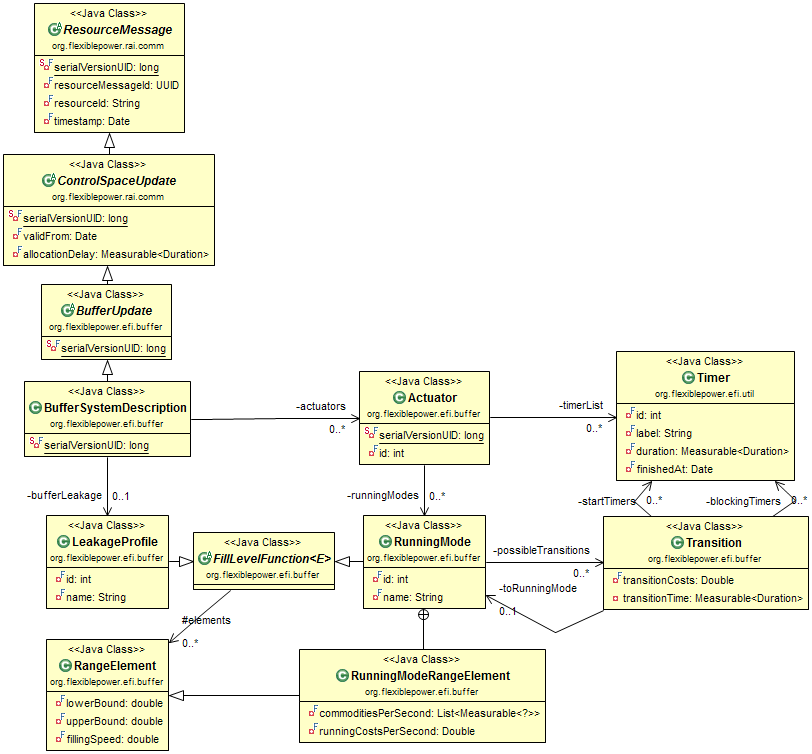
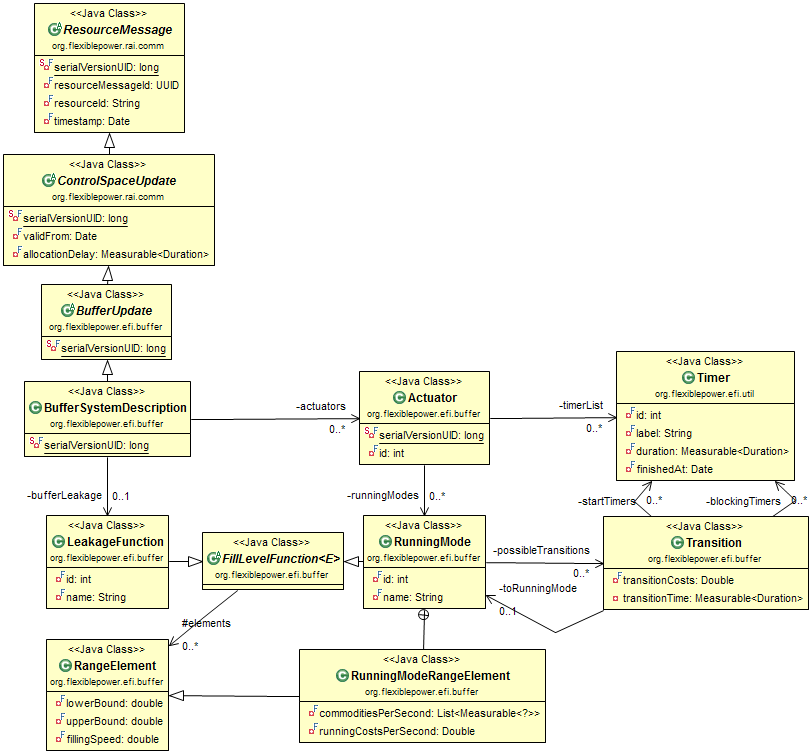
Changed the name of the LeakageProfile into LeakageFunction.

Changed region(s): [[0.0616, 0.7016, 0.431, 0.8541], [0.7081, 0.7321, 0.7389, 0.7626]]

diff --git a/flexiblepower.api.efi/src/org/flexiblepower/efi/buffer/BufferSystemDescription.java b/flexiblepower.api.efi/src/org/flexiblepower/efi/buffer/BufferSystemDescription.java
@@ -18,14 +18,14 @@ public class BufferSystemDescription extends BufferUpdate {
 
     // TODO Is Leakage a running mode? Or should we have a new term for
     // RunningMode...
-    private final LeakageProfile bufferLeakage;
+    private final LeakageFunction bufferLeakage;
 
     public BufferSystemDescription(String resourceId,
                                    Date timestamp,
                                    Date validFrom,
                                    Measurable<Duration> allocationDelay,
                                    List<Actuator> actuators,
-                                   LeakageProfile bufferLeakage) {
+                                   LeakageFunction bufferLeakage) {
         super(resourceId, timestamp, validFrom, allocationDelay);
         this.actuators = actuators;
         this.bufferLeakage = bufferLeakage;
@@ -35,7 +35,7 @@ public class BufferSystemDescription extends BufferUpdate {
         return actuators;
     }
 
-    public LeakageProfile getBufferLeakage() {
+    public LeakageFunction getBufferLeakage() {
         return bufferLeakage;
     }
 

diff --git a/flexiblepower.api.efi/src/org/flexiblepower/efi/buffer/LeakageFunction.java b/flexiblepower.api.efi/src/org/flexiblepower/efi/buffer/LeakageFunction.java
@@ -1,12 +1,12 @@
 package org.flexiblepower.efi.buffer;
 
-public class LeakageProfile extends FillLevelFunction<RangeElement> {
+public class LeakageFunction extends FillLevelFunction<RangeElement> {
 
     private final int id;
 
     private final String name;
 
-    public LeakageProfile(int id, String name, RangeElement[] rangeElements) {
+    public LeakageFunction(int id, String name, RangeElement[] rangeElements) {
         super(rangeElements);
         this.id = id;
         this.name = name;
